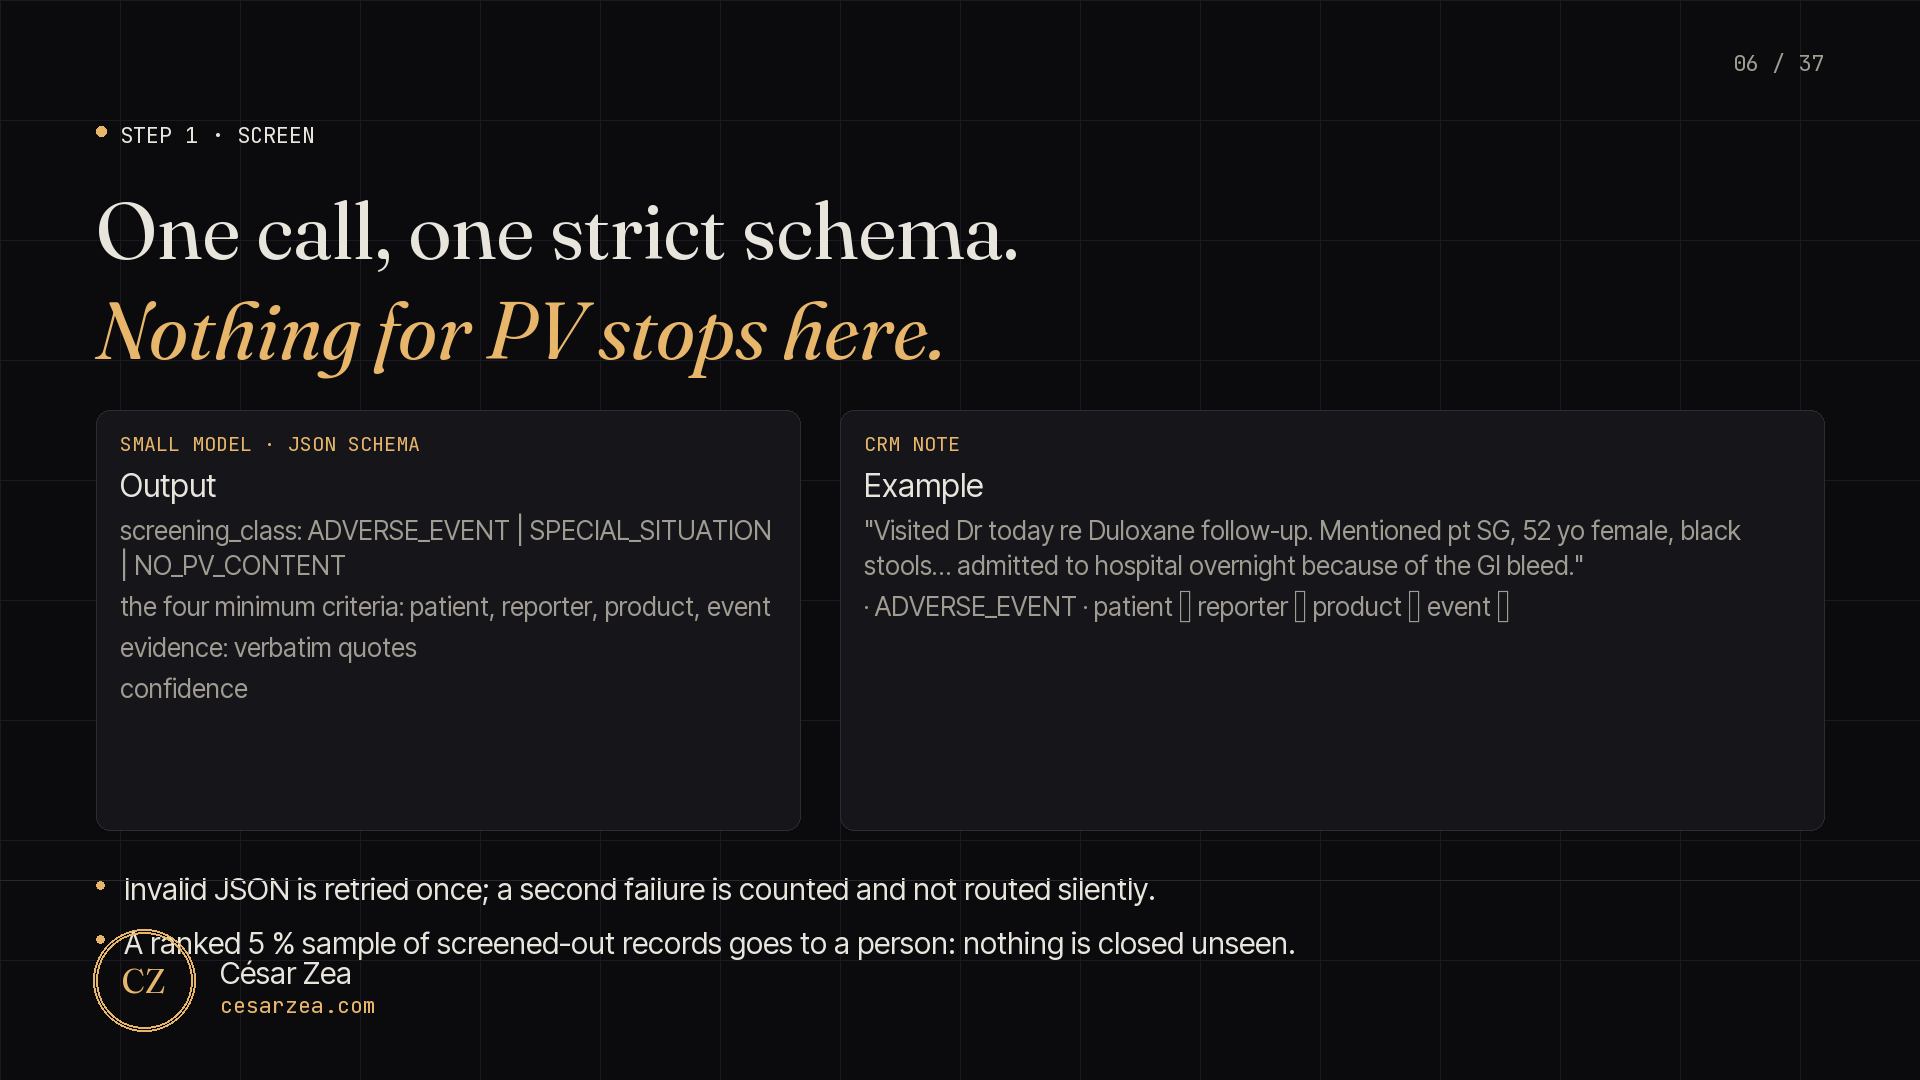
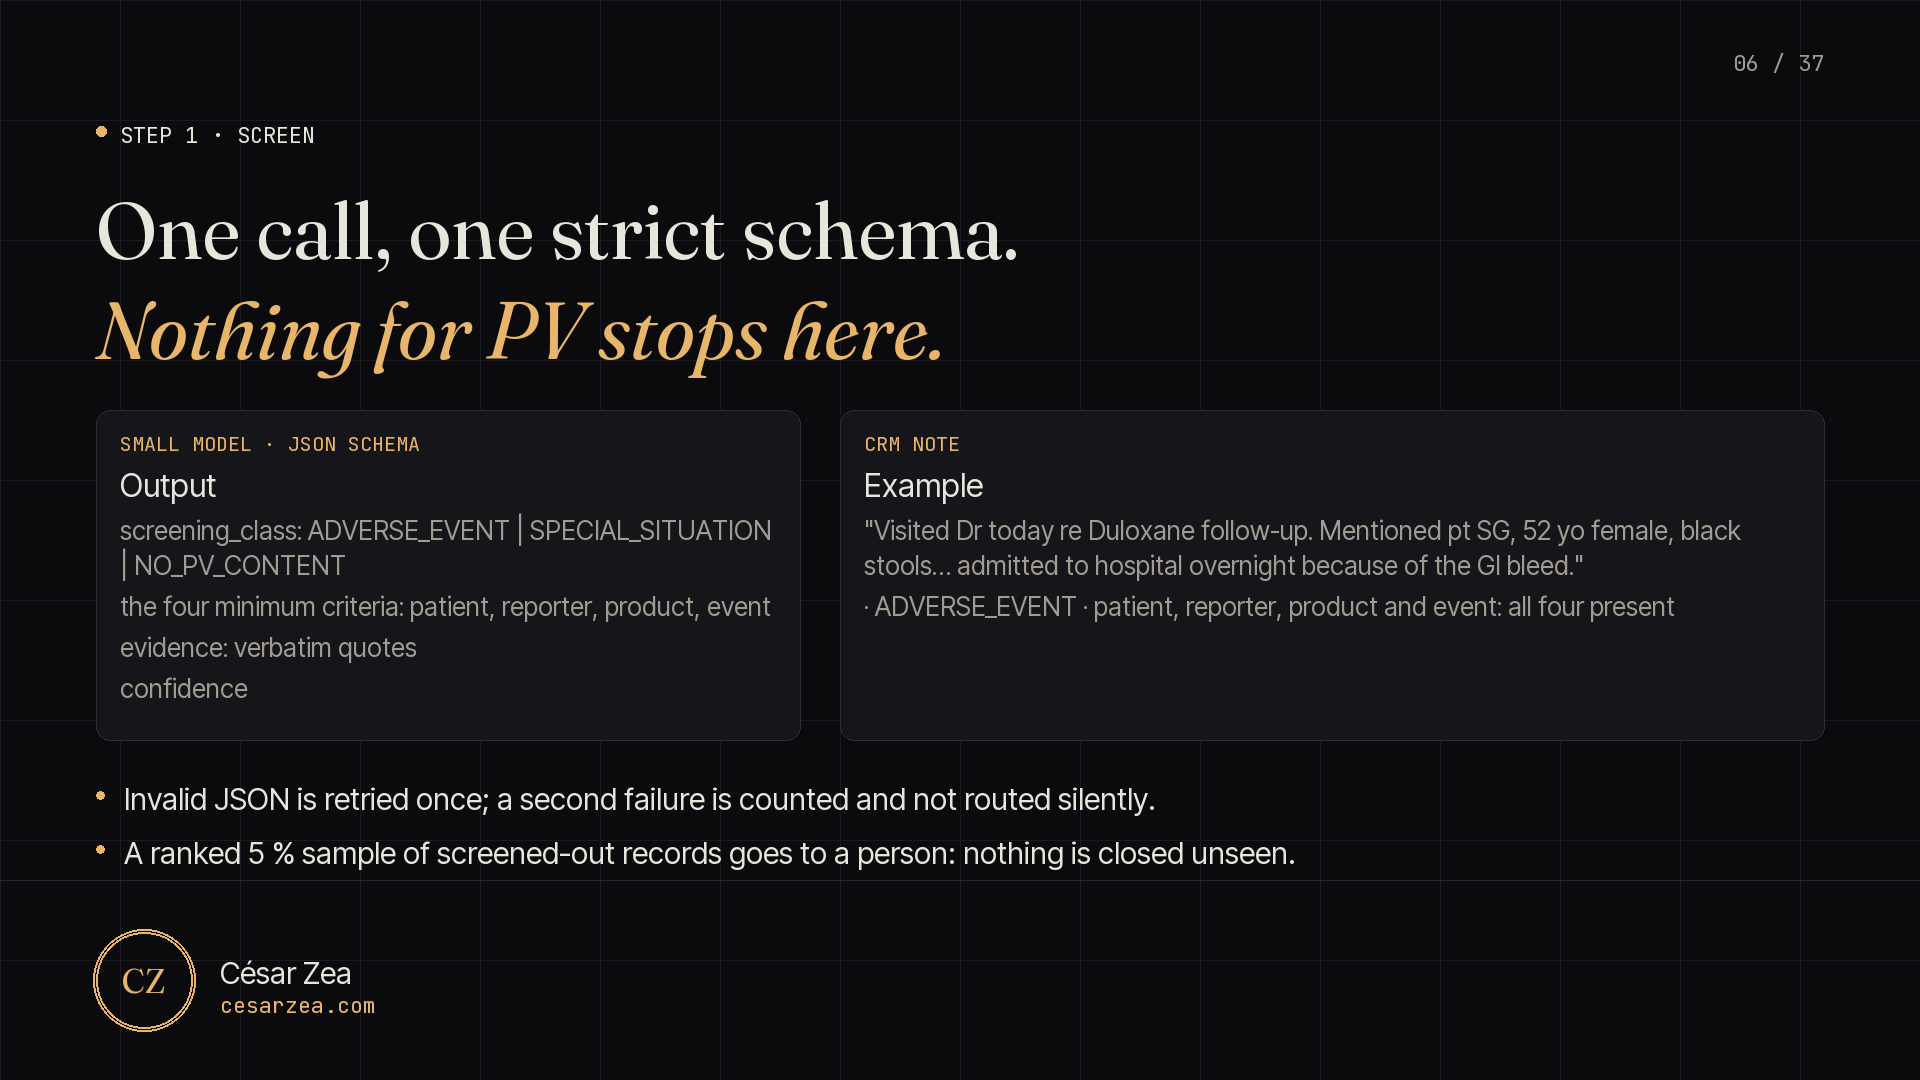
Demo: fix overflowing frames 6, 20, 21 and the double counter on reused slides; voice listing and samples for ElevenLabs

Changed region(s): [[0.0625, 0.7333, 0.6875, 0.8861], [0.625, 0.55, 0.875, 0.5806]]

diff --git a/scripts/demo_full_frames.py b/scripts/demo_full_frames.py
@@ -173,12 +173,12 @@ def f04() -> Image.Image:
 def f06() -> Image.Image:
     im, d = canvas()
     y = headline(d, "Step 1 · Screen", "One call, one strict schema.", "Nothing for PV stops here.")
-    card(d, (96, y, 800, y + 420), "Output", ["screening_class: ADVERSE_EVENT | SPECIAL_SITUATION | NO_PV_CONTENT",
+    card(d, (96, y, 800, y + 330), "Output", ["screening_class: ADVERSE_EVENT | SPECIAL_SITUATION | NO_PV_CONTENT",
                                               "the four minimum criteria: patient, reporter, product, event", "evidence: verbatim quotes", "confidence"], tag="SMALL MODEL · JSON SCHEMA")
-    card(d, (840, y, 1824, y + 420), "Example", ["\"Visited Dr today re Duloxane follow-up. Mentioned pt SG, 52 yo female, black stools… admitted to hospital overnight because of the GI bleed.\"",
-                                                  "· ADVERSE_EVENT · patient ✓ reporter ✓ product ✓ event ✓"], tag="CRM NOTE")
+    card(d, (840, y, 1824, y + 330), "Example", ["\"Visited Dr today re Duloxane follow-up. Mentioned pt SG, 52 yo female, black stools… admitted to hospital overnight because of the GI bleed.\"",
+                                                  "· ADVERSE_EVENT · patient, reporter, product and event: all four present"], tag="CRM NOTE")
     bullets(d, ["Invalid JSON is retried once; a second failure is counted and not routed silently.",
-                "A ranked 5 % sample of screened-out records goes to a person: nothing is closed unseen."], 96, y + 460, 1700, 30)
+                "A ranked 5 % sample of screened-out records goes to a person: nothing is closed unseen."], 96, y + 370, 1700, 30)
     return finish(im, d, 6)
 
 
@@ -355,7 +355,7 @@ def f20() -> Image.Image:
     arrow(d, (900, top + 50), (1010, top + 60))
     bullets(d, ["A wrapper agent with a \"match\" tool would make a model echo a 10,000-token payload into a tool call: slow, costly, and Claude truncated it. The entry point hands the payload to the matcher directly.",
                 "Sessions are reused through the agent_session_id query parameter: about 6 s cold, 1 s warm. Error replies become BLOCKED decisions, never silent NO_MATCH."],
-            96, top + 370, 1700, 28)
+            96, top + 140, 850, 24)
     return finish(im, d, 20)
 
 
@@ -367,11 +367,13 @@ def f21() -> Image.Image:
     node(d, (316, y + 140, 520, y + 220), "Snowflake", "", accent=GOLD)
     node(d, (96, y + 240, 520, y + 320), "Databricks", "", accent=GREEN)
     group(d, (600, y - 30, 1824, y + 360), "Azure · unattended")
-    node(d, (630, y + 20, 1000, y + 100), "Container Apps job", "0.5 vCPU · manual trigger")
-    node(d, (1030, y + 20, 1400, y + 100), "User-assigned identity", "Cognitive Services User · Azure AI User")
-    node(d, (1430, y + 20, 1794, y + 100), "Key Vault", "Snowflake keys as secret refs")
-    node(d, (630, y + 140, 1794, y + 220), "AUDIT.MODEL_CALL: provider, deployment, tokens, cached, latency, status, cost · RULE_RESULT · MATCH_DECISION · FINDING", "")
-    node(d, (630, y + 250, 1794, y + 330), "Retries with back-off on 429 · failures become BLOCKED · --resume continues a run · concurrency per quota", "")
+    node(d, (630, y + 20, 960, y + 100), "Container Apps job", "0.5 vCPU · manual trigger")
+    node(d, (990, y + 20, 1450, y + 100), "User-assigned identity", "Cognitive Services User · Azure AI User")
+    node(d, (1480, y + 20, 1794, y + 100), "Key Vault", "Snowflake keys as secret refs")
+    node(d, (630, y + 140, 1794, y + 220), "AUDIT.MODEL_CALL · RULE_RESULT · MATCH_DECISION · FINDING",
+         "provider, deployment, tokens, cached, latency, status, cost: one row per call")
+    node(d, (630, y + 250, 1794, y + 330), "Resilient by design",
+         "retries with back-off on 429 · failures become BLOCKED · --resume continues a run · concurrency per quota")
     bullets(d, ["make run-sweep-job starts an execution with its arguments and prints its logs; without --limit it refuses to sweep the whole corpus by accident."],
             96, y + 400, 1700, 28)
     return finish(im, d, 21)
@@ -545,8 +547,11 @@ def shared(n: int):
     d = ImageDraw.Draw(im)
     from make_demo_frames import FOOTER_H
     d.rectangle([0, H - FOOTER_H - 2, W, H], fill=(11, 11, 14))
+    d.rectangle([W - 320, 30, W, 90], fill=(11, 11, 14))   # the short demo's own counter
     for x in range(0, W, 120):
         d.line([(x, H - FOOTER_H - 2), (x, H)], fill=(26, 26, 32), width=1)
+        if x >= W - 320:
+            d.line([(x, 30), (x, 90)], fill=(26, 26, 32), width=1)
     footer(im, d, "" if KARAOKE else CAPS.get(n, ""), None, n, TOTAL)
     return im
 

diff --git a/scripts/make_demo_audio.py b/scripts/make_demo_audio.py
@@ -8,6 +8,8 @@ clip per frame, word timings, karaoke subtitles (the words light up as they are 
 
     uv run --no-project python -I scripts/make_demo_audio.py [--script docs/demo/script-full.md]
         [--frames-dir docs/demo/full/frames] [--name full] [--engine elevenlabs|say] [--voice <id>]
+    uv run --no-project python -I scripts/make_demo_audio.py --list-voices          # pick a voice
+    uv run --no-project python -I scripts/make_demo_audio.py --sample <id>,<id>     # hear candidates
 
 Engines: "elevenlabs" (default when ELEVENLABS_API_KEY is in the environment or in .env; the key never
 leaves the machine except in the API call; word timings come from the API's alignment) or "say"
@@ -85,6 +87,36 @@ def tts_elevenlabs(text: str, out: Path, voice: str, key: str) -> list[tuple[flo
         timings.append((starts[j], ends[k]))
         i = k + 1
     return timings
+
+
+def elevenlabs_voices(key: str) -> list[dict]:
+    """The voices available to the account (premade and own), with their labels."""
+    req = urllib.request.Request("https://api.elevenlabs.io/v1/voices", headers={"xi-api-key": key})
+    with urllib.request.urlopen(req, timeout=60) as r:
+        return json.load(r)["voices"]
+
+
+def print_voices(key: str) -> None:
+    rows = sorted(elevenlabs_voices(key), key=lambda v: (v.get("category", ""), v["name"]))
+    print(f"{'voice id':22} {'name':18} {'category':10} labels")
+    for v in rows:
+        lab = v.get("labels") or {}
+        tags = " · ".join(str(lab[k]) for k in ("language", "accent", "gender", "age", "use_case", "description") if lab.get(k))
+        print(f"{v['voice_id']:22} {v['name']:18} {v.get('category', ''):10} {tags}")
+
+
+def make_samples(key: str, voices: list[str], text: str) -> None:
+    """One short clip per candidate voice in docs/demo/audio/samples/, named by the voice, to pick one by ear."""
+    names = {v["voice_id"]: v["name"] for v in elevenlabs_voices(key)}
+    sdir = OUT / "audio" / "samples"
+    sdir.mkdir(parents=True, exist_ok=True)
+    for vid in voices:
+        out = sdir / f"{names.get(vid, vid)}-{vid}.mp3"
+        if out.is_file():
+            print(f"{out} (cached)")
+            continue
+        tts_elevenlabs(text, out, vid, key)
+        print(out)
 
 
 def tts_say(text: str, out: Path, voice: str) -> list[tuple[float, float]]:
@@ -179,6 +211,9 @@ def main() -> int:
     ap = argparse.ArgumentParser()
     ap.add_argument("--engine", choices=["elevenlabs", "say"], default=None)
     ap.add_argument("--voice", default=None, help="ElevenLabs voice id, or a macOS voice name for --engine say")
+    ap.add_argument("--list-voices", action="store_true", help="print the ElevenLabs voices of the account and exit")
+    ap.add_argument("--sample", default=None, metavar="ID[,ID...]",
+                    help="narrate the first frame with each of these ElevenLabs voices into docs/demo/audio/samples/ and exit")
     ap.add_argument("--pause", type=float, default=0.8, help="seconds of silence after each clip")
     ap.add_argument("--lead", type=float, default=0.4, help="seconds before a clip starts on its frame")
     ap.add_argument("--script", default=None)
@@ -195,6 +230,14 @@ def main() -> int:
     if args.frames_dir:
         FRAMES = Path(args.frames_dir) if Path(args.frames_dir).is_absolute() else ROOT / args.frames_dir
     key = load_env_key()
+    if args.list_voices or args.sample:
+        if not key:
+            raise SystemExit("ELEVENLABS_API_KEY not set (environment or .env)")
+        if args.list_voices:
+            print_voices(key)
+        if args.sample:
+            make_samples(key, [v.strip() for v in args.sample.split(",") if v.strip()], script_rows()[0]["narration"])
+        return 0
     engine = args.engine or ("elevenlabs" if key else "say")
     if engine == "elevenlabs" and not key:
         raise SystemExit("ELEVENLABS_API_KEY not set (environment or .env); use --engine say for a draft")
